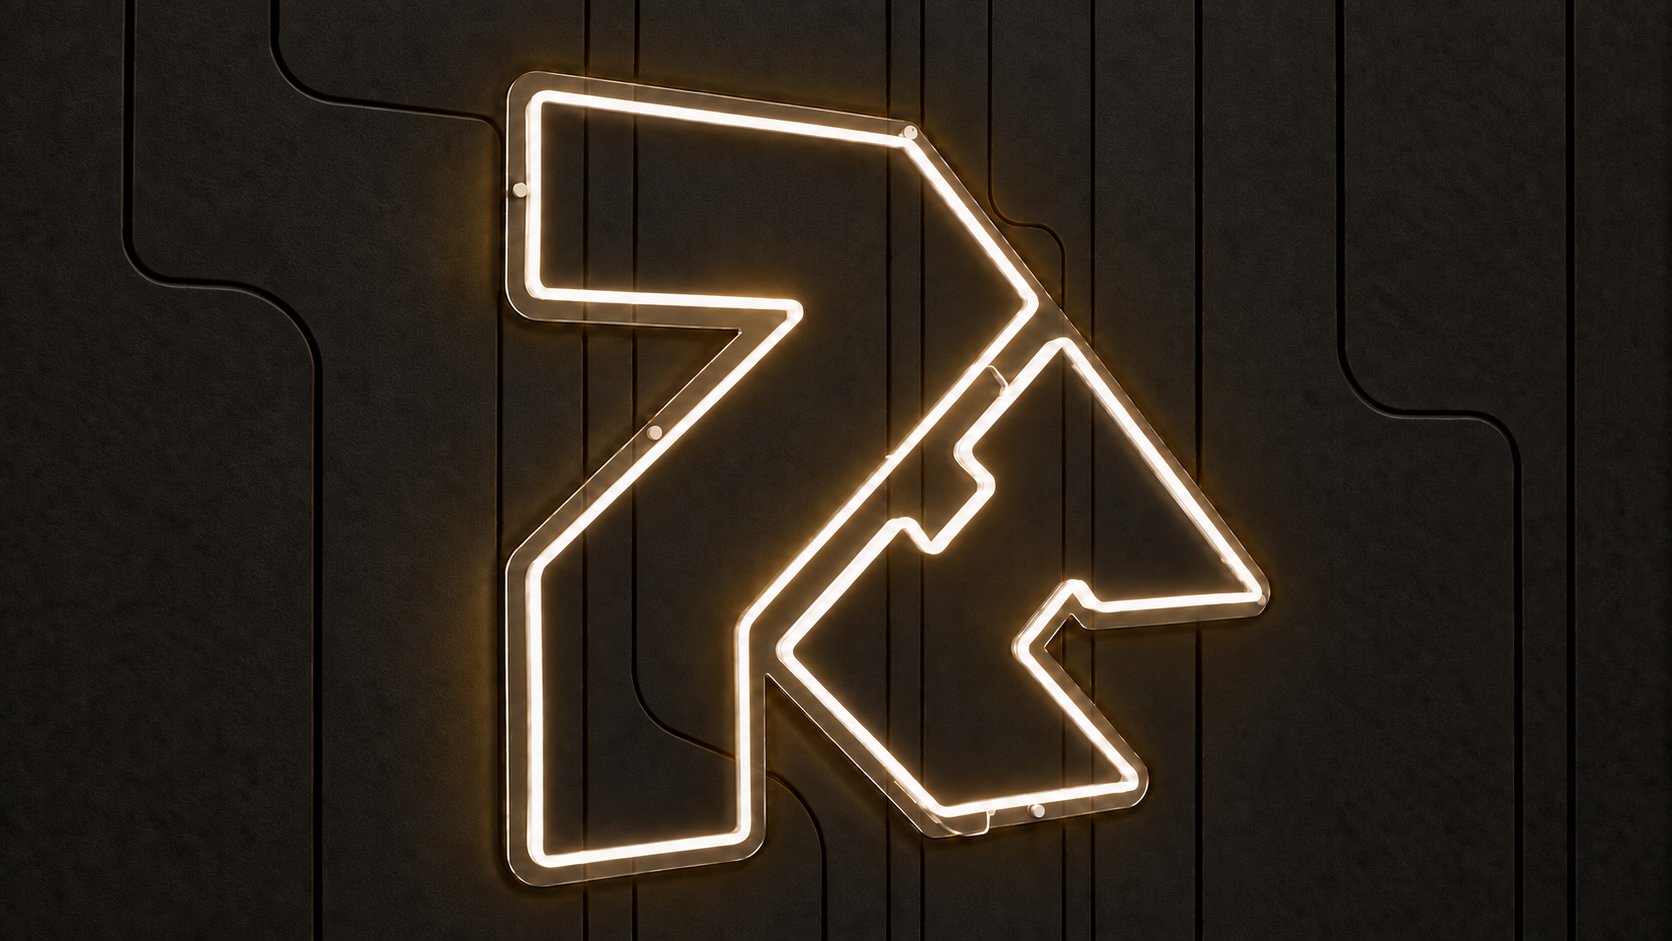
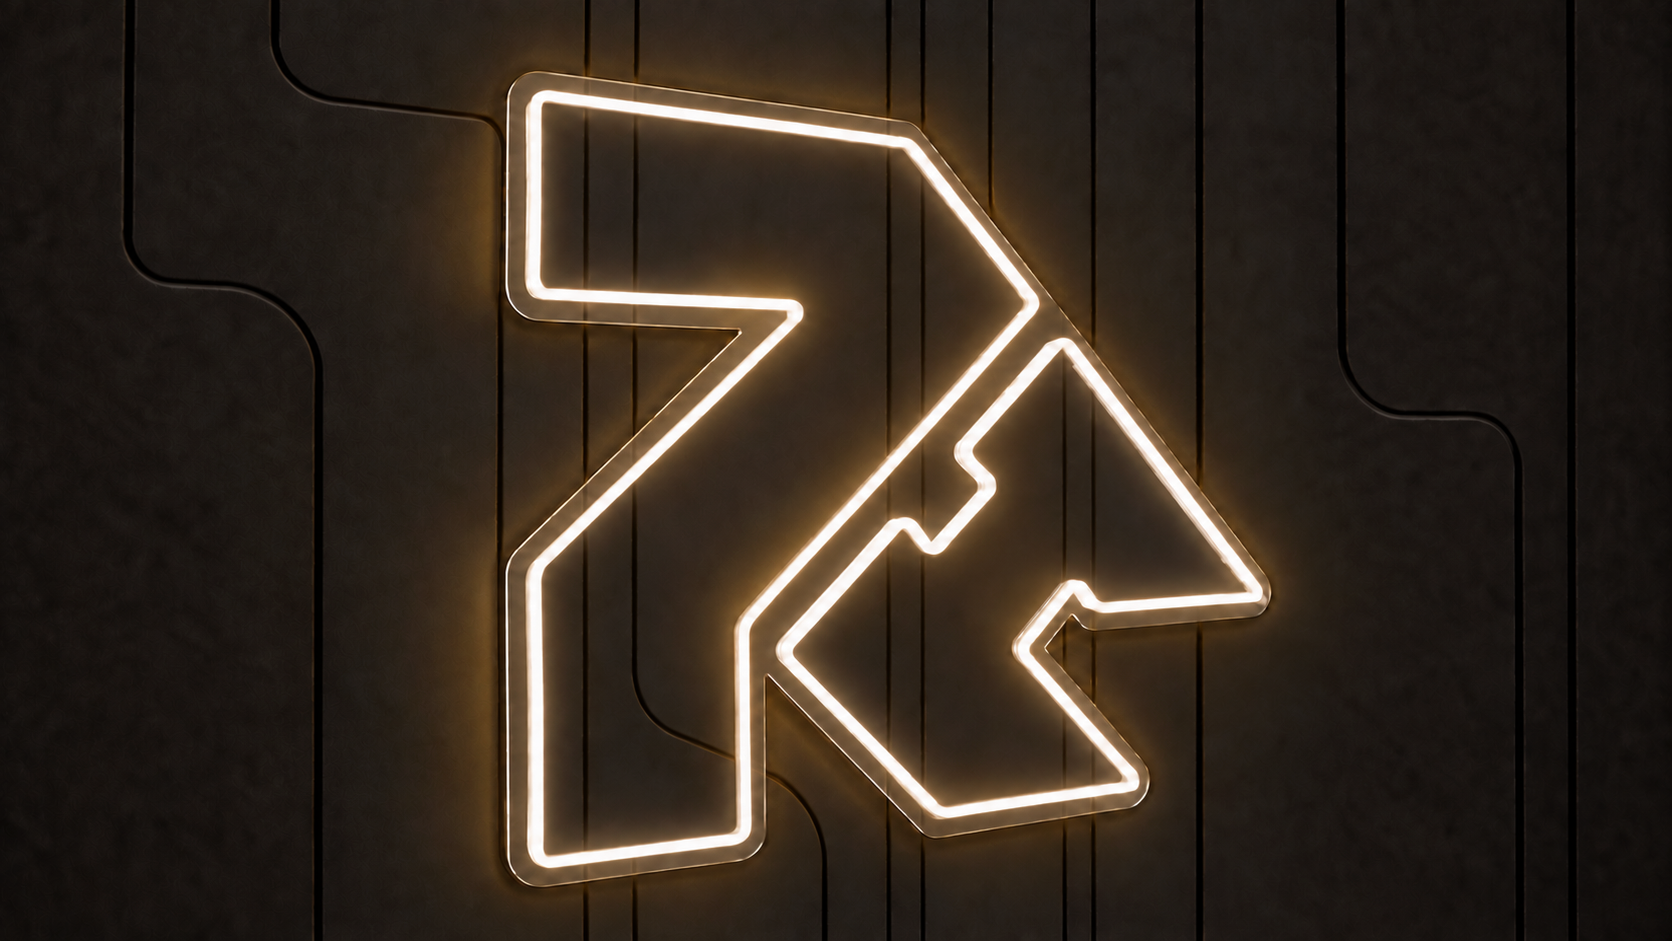
hero: segunda versión de la foto de portada, con la pared lisa
Sustituye la foto del logo en neón por la versión nueva: mismo encuadre y
mismo tamaño, pared más lisa y sin los tornillos del metacrilato. El logo
está en la misma posición al píxel, así que el encuadre vertical no cambia.

El archivo venía con un 96 % de opacidad en toda la imagen, un resto de la
exportación: se guarda sin transparencia y con los colores idénticos, para
que el fondo dorado del hero no se transparente a través de la foto.

Formato medido de nuevo con la pared lisa: sigue WebP 90, sin escalones en
el halo del neón. Las variantes bajan a 20-77 KB (antes 22-174).

Capturas en Chromium y WebKit a siete tamaños. Smoke E2E 38/38.

diff --git a/src/lib/heroMedia.ts b/src/lib/heroMedia.ts
@@ -21,9 +21,11 @@ export const HERO_IMAGE = portada;
 export const HERO_IMAGE_WIDTHS = [640, 960, 1280, 1672];
 
 /**
- * WebP a calidad 90, y sin AVIF: comparado a 2× lado a lado con el original,
- * AVIF borra la textura de fieltro de la pared incluso a calidad 90 (301 KB),
- * y WebP 90 la conserva con 152 KB a 1672 px.
+ * WebP a calidad 90, y sin AVIF. Con la primera versión de la foto, AVIF
+ * borraba la textura de la pared incluso a calidad 90; con la actual, de pared
+ * más lisa, AVIF ya no pierde nada visible, pero tampoco gana: WebP 90 pesa
+ * 77 KB a 1672 px y no hace escalones en el halo del neón. Cifras de las dos
+ * mediciones en DECISIONS.md (2026-09-25).
  */
 export const HERO_IMAGE_QUALITY = 90;
 

diff --git a/DECISIONS.md b/DECISIONS.md
@@ -91,6 +91,38 @@ Football.» pasa por delante del trazo inferior del neón. Se lee gracias al
 degradado, pero compiten. Recolocar el titular o reencuadrar es decisión de
 diseño, anotada en `docs/hallazgos-abiertos.md`.
 
+**Actualización del mismo día — segunda versión de la foto.** Horas después
+llegó otra `Portada Web.png`, con el mismo nombre y el mismo tamaño, que
+sustituye a la primera. Mismo encuadre: el logo está en la misma posición al
+píxel (centro 53,1 % × 50,9 %, 45,7 % del ancho, del 7,8 % al 93,9 % del alto),
+así que las cifras del encuadre vertical no cambian. Cambia el acabado: la
+pared es más lisa y desaparecen los tornillos del metacrilato.
+
+Dos cosas de este archivo que no se ven a simple vista:
+
+- **Venía con transparencia en toda la imagen**, un 96 % de opacidad casi
+  uniforme (valores entre 233 y 251 sobre 255), sin viñeteado: un resto de la
+  exportación. Se guarda en el repo **sin el canal alfa** y con los colores
+  idénticos al original (comprobado píxel a píxel). Con la transparencia, el
+  fondo dorado del hero se habría transparentado un poco a través de la foto.
+- **El formato se volvió a medir**, porque el motivo de descartar AVIF era la
+  textura de la pared. Con la pared lisa:
+
+  | Formato · calidad | Peso | SSIM |
+  |---|---:|---:|
+  | AVIF 80 | 46 KB | 0,982 |
+  | AVIF 86 | 68 KB | 0,984 |
+  | AVIF 90 | 113 KB | 0,987 |
+  | WebP 85 | 50 KB | 0,975 |
+  | WebP 90 | 73 KB | 0,979 |
+  | WebP 94 | 106 KB | 0,981 |
+
+  Mirado con el contraste multiplicado por 3,2 sobre el halo del neón, que es
+  donde saldrían escalones: ninguno los hace, y las diferencias entre ellos
+  solo se ven forzando la imagen. AVIF ya no pierde nada visible, pero tampoco
+  gana lo bastante para añadir un segundo formato. **Se queda WebP 90.** En el
+  build: 20, 35, 52 y 77 KB (antes 22, 53, 103 y 174).
+
 ---
 
 ## 2026-09-25 · `/talentos` sigue el orden de la lista de Mario, no los bloques por categoría

diff --git a/ARCHITECTURE.md b/ARCHITECTURE.md
@@ -190,7 +190,7 @@ No hay páginas de detalle por jugador: el grid de `/talentos/` es no-clicable p
 ### Foto
 
 Desde el 2026-09-25 el hero es una **foto fija**: el logo PH en neón sobre la
-pared de fieltro (`src/assets/images/hero/portada.png`, 1672×941). Antes fue un
+pared oscura (`src/assets/images/hero/portada.png`, 1672×941). Antes fue un
 vídeo; el porqué del cambio y lo que se midió, en `DECISIONS.md` (misma fecha).
 
 Se sirve con `<Image>` de `astro:assets` en WebP calidad 90, en cuatro anchos
